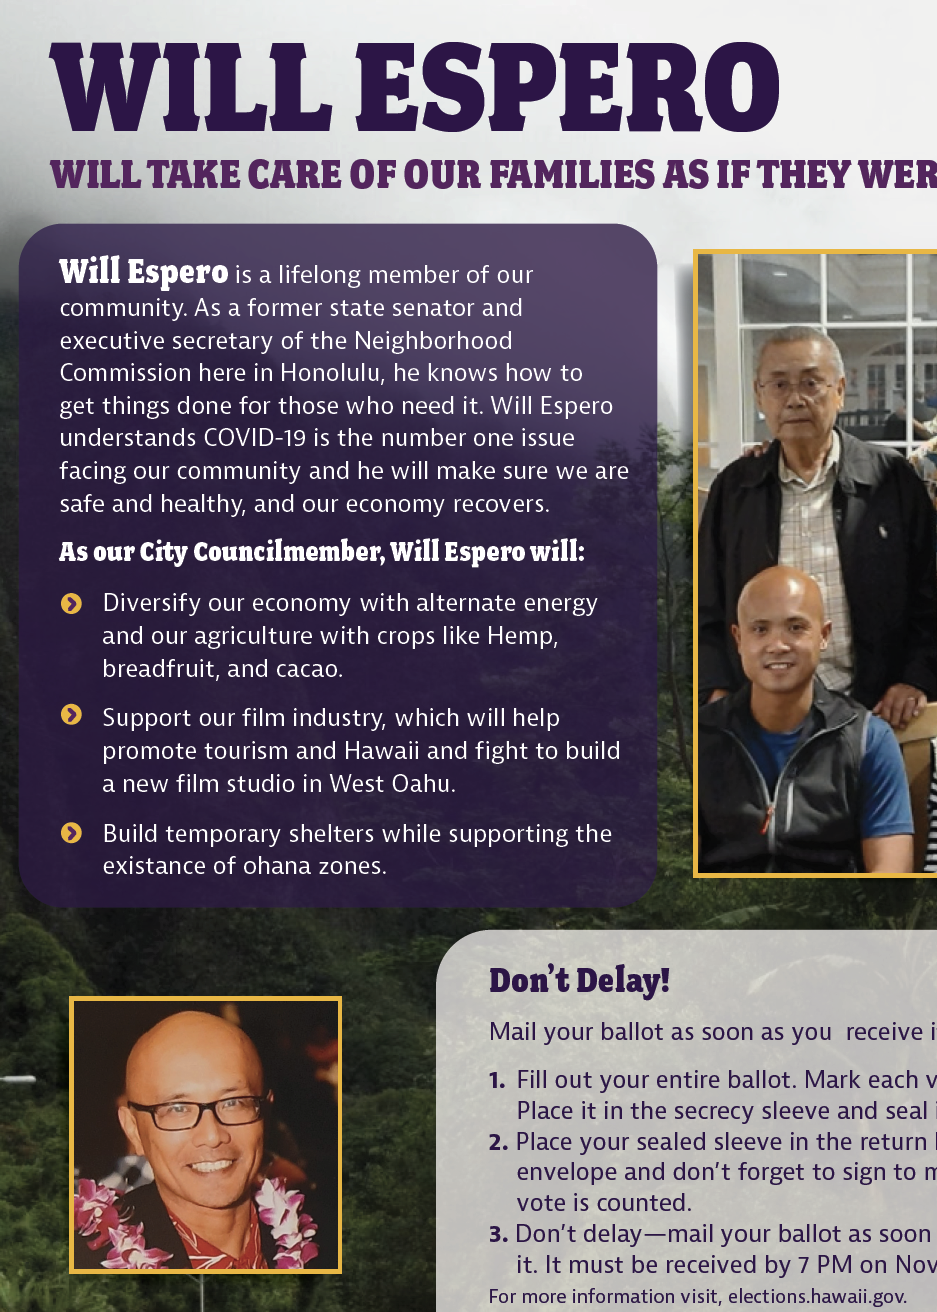
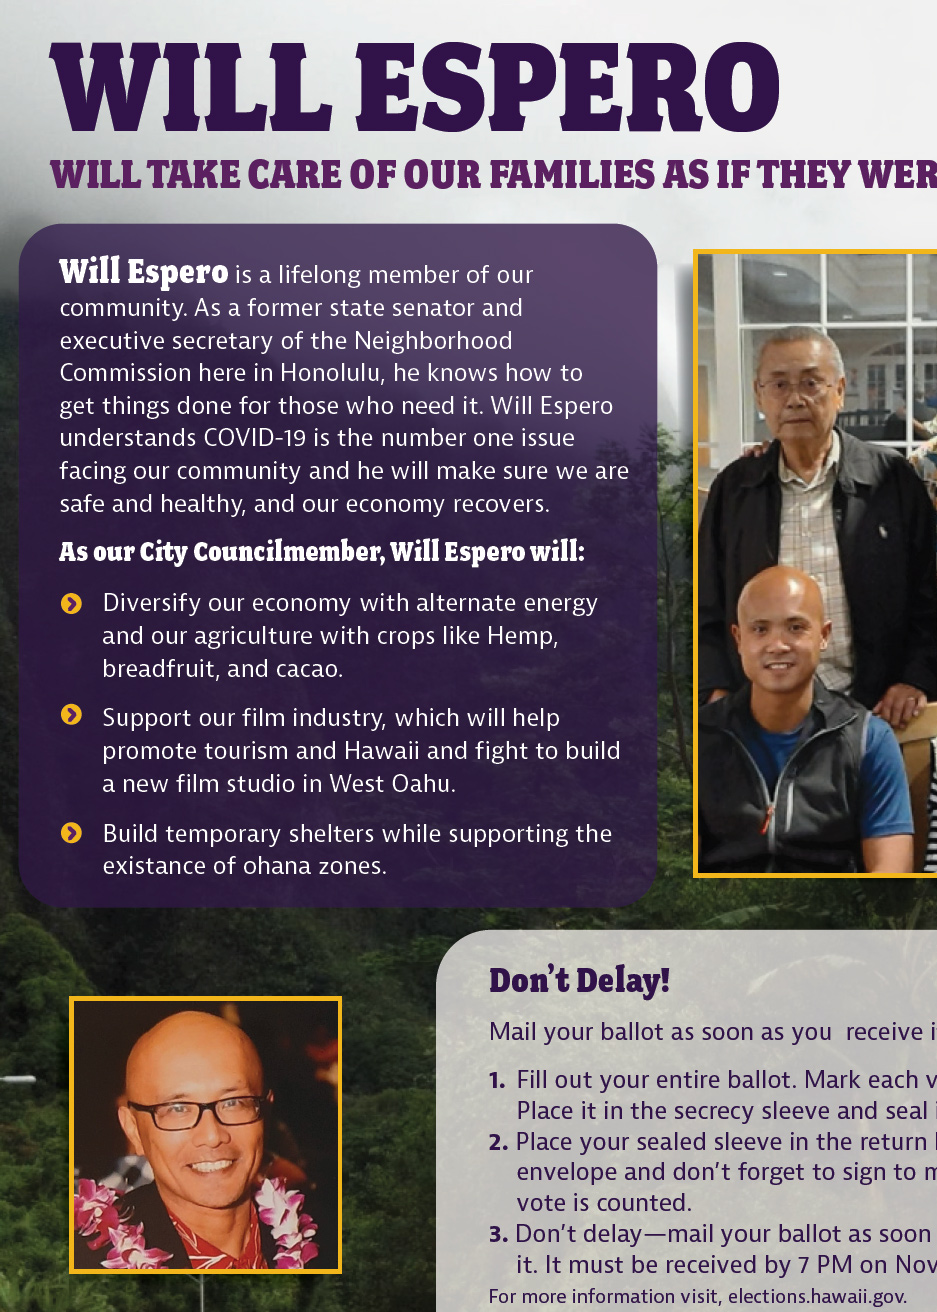
upload smaller file size photos

diff --git a/css/style.css b/css/style.css
@@ -41,7 +41,11 @@ a {
 
 .cursive-link {
   font: 500 20px fairwater-script, serif;
-  text-align: right;
+  float: right;
+}
+
+.more-here {
+  height: 100px;
 }
 
 .this-way {
@@ -143,7 +147,7 @@ button:hover {
 }
 
 .footer-head {
-  font: 30px 'Yeseva One', serif;
+  font: 26px 'Yeseva One', serif;
 }
 
 .flex-between {
@@ -176,7 +180,6 @@ hr {
   display: flex;
   justify-content: center;
   flex-wrap: wrap;
-  margin: ;
 
 }
 .work-box {

diff --git a/index.html b/index.html
@@ -108,7 +108,7 @@
       </div>
     </div>
   </a>
-  <a href="pages/work.html" class="cursive-link"><p>Check out more here!</p></a>
+  <p class="margin more-here"><a href="pages/work.html" class="cursive-link">Check out more here!</a></p>
 
   <div class="margin">
     <div class="clients-testimonials">

diff --git a/css/tablet.css b/css/tablet.css
@@ -100,3 +100,7 @@
 #submit {
   width: 82%;
 }
+
+.flex-between {
+  display: block;
+}
